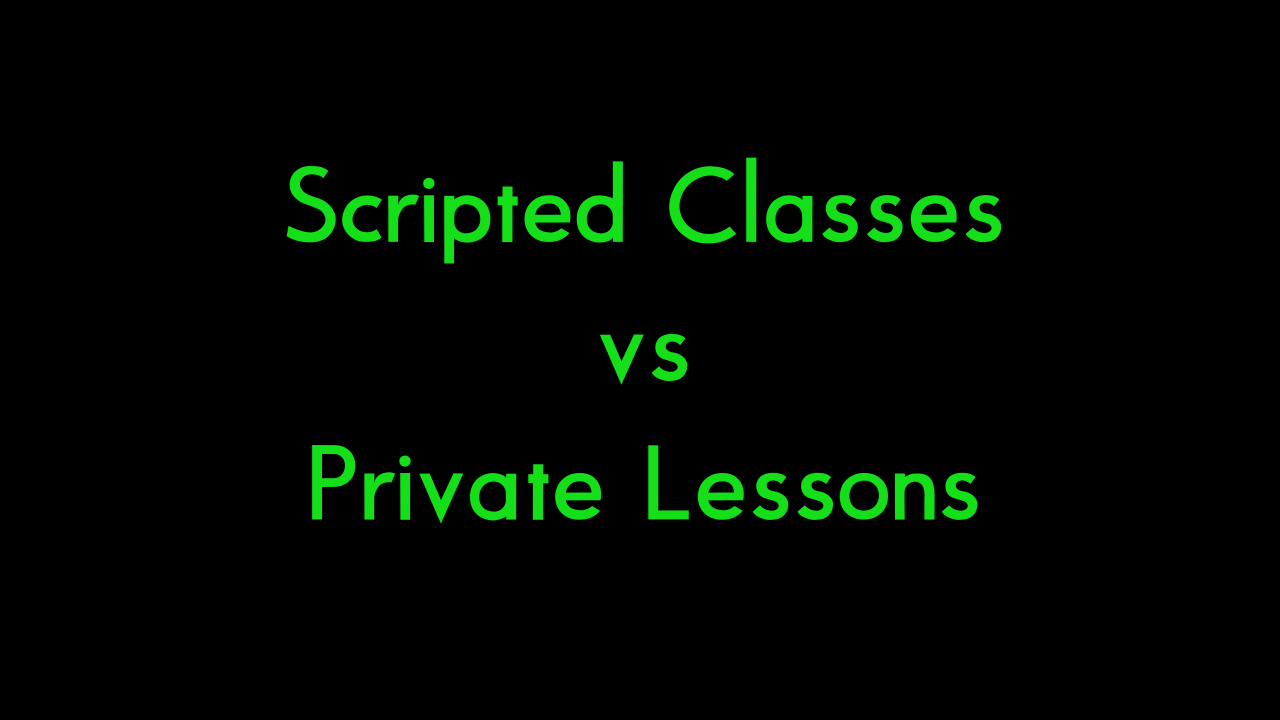
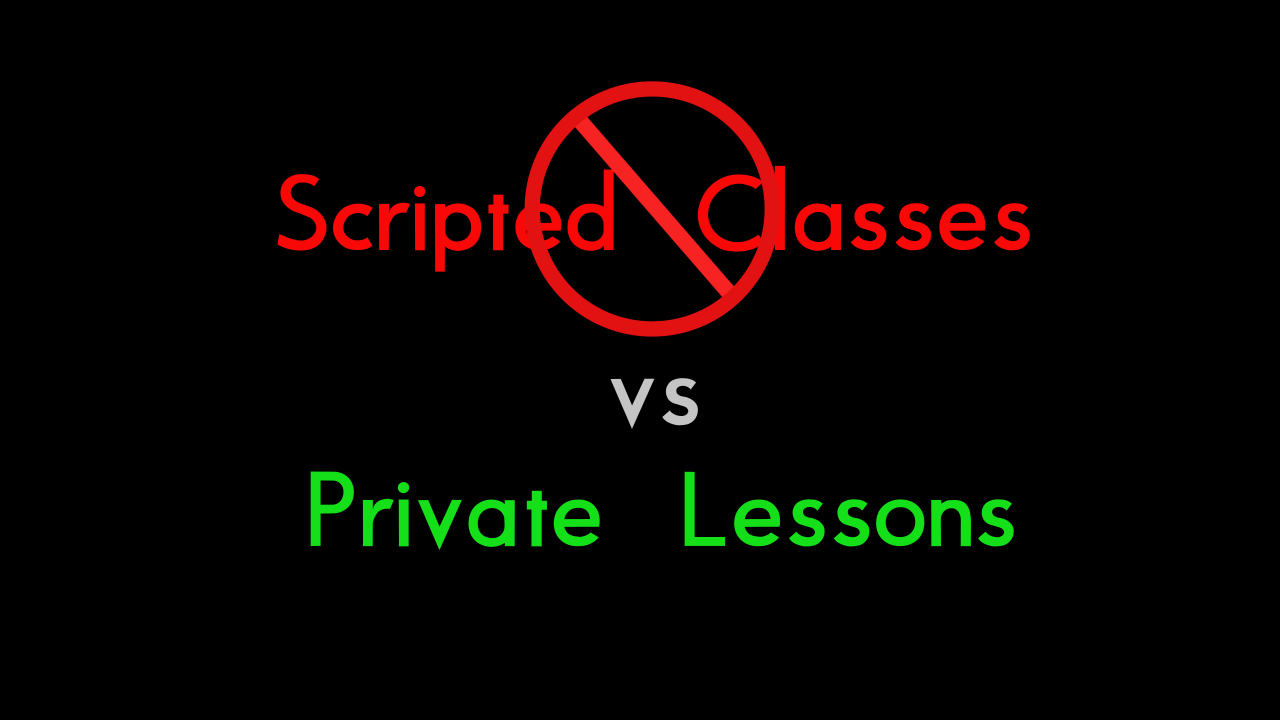
better thumbnails for scripted_classes_vs_private_lessons

Changed region(s): [[0.2188, 0.0917, 0.8125, 0.7639], [0.2188, 0.6111, 0.4688, 0.7639]]

diff --git a/articles/scripted_classes_vs_private_lessons/scripted_classes_vs_private_lessons.html b/articles/scripted_classes_vs_private_lessons/scripted_classes_vs_private_lessons.html
@@ -45,7 +45,8 @@
         Scripted classes and group classes are definitely not the same, but I'll
         use them interchangeably in this article. That's mostly because private
         lessons, in contrast, when done well, are not scripted, and obviously
-        not in group.
+        not in group; and because typically group classes are scripted, for
+        efficiency.
       </p>
 
       <p>
